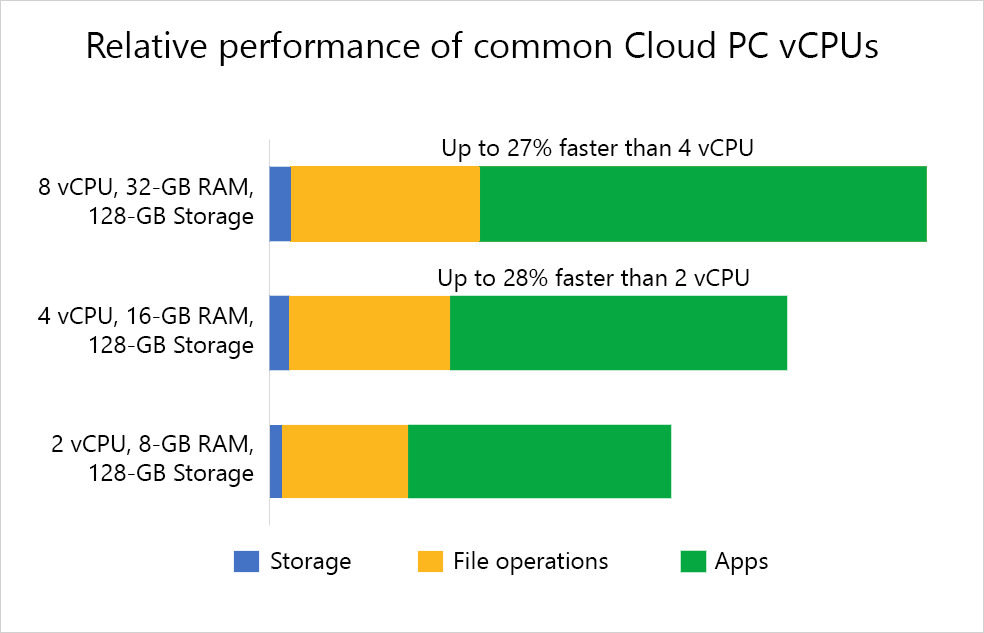
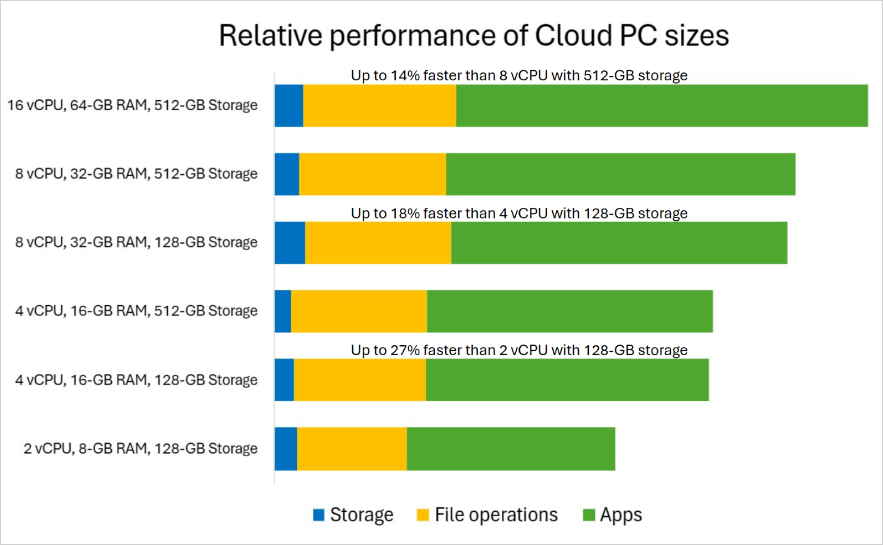
update image, change

diff --git a/Windows365/relative-cloud-pc-performance.md b/Windows365/relative-cloud-pc-performance.md
@@ -33,7 +33,7 @@ ms.collection:
 # Relative performance for different Cloud PC sizes
 
 This article examines the relative performance between three common Cloud PC sizes. This information can help Windows 365 admins decide on the right Cloud PC size for their users.
-For the purposes of the comparisons in this article, these following Cloud PC sizes were used:
+For the purposes of the comparisons in this article, the following Cloud PC sizes were used:
 
 - 2 vCPU/8-GB RAM/128-GB storage
 - 4 vCPU/16-GB RAM/128-GB storage
@@ -70,7 +70,7 @@ For the workloads we test, the performance improvement when moving from 4 vCPU t
 
 The 16 vCPU / 64-GB RAM / 512-GB storage size is meant to accommodate more processor intensive workloads. It's up to 14% faster than the 8 vCPU / 32-GB RAM / 512-GB storage size.
 
-If you plan on running CPU-intensive workloads, the differences are going to be more noticeable and favor a greater number of processors. For example, workloads that require processing large datasets and have strict latency requirements during compilation work best with 16 vCPU sizes. For example, workloads like business analytics tools with large datasets in the 64-bit version of Microsoft Excel work best with 8 vCPU. By contrast, the 4 vCPU size is popular among Windows 365 customers with employees who only use Microsoft Teams, browsers, or Microsoft applications.
+If you plan on running CPU-intensive workloads, the differences are going to be more noticeable and favor a greater number of processors. For example, workloads that require processing large datasets and have strict latency requirements during compilation work best with 16 vCPU sizes. By contrast, the 4 vCPU size is popular among Windows 365 customers with employees who only use Microsoft Teams, browsers, or Microsoft applications.
 
 ## Choosing the Cloud PC size for your users
 
